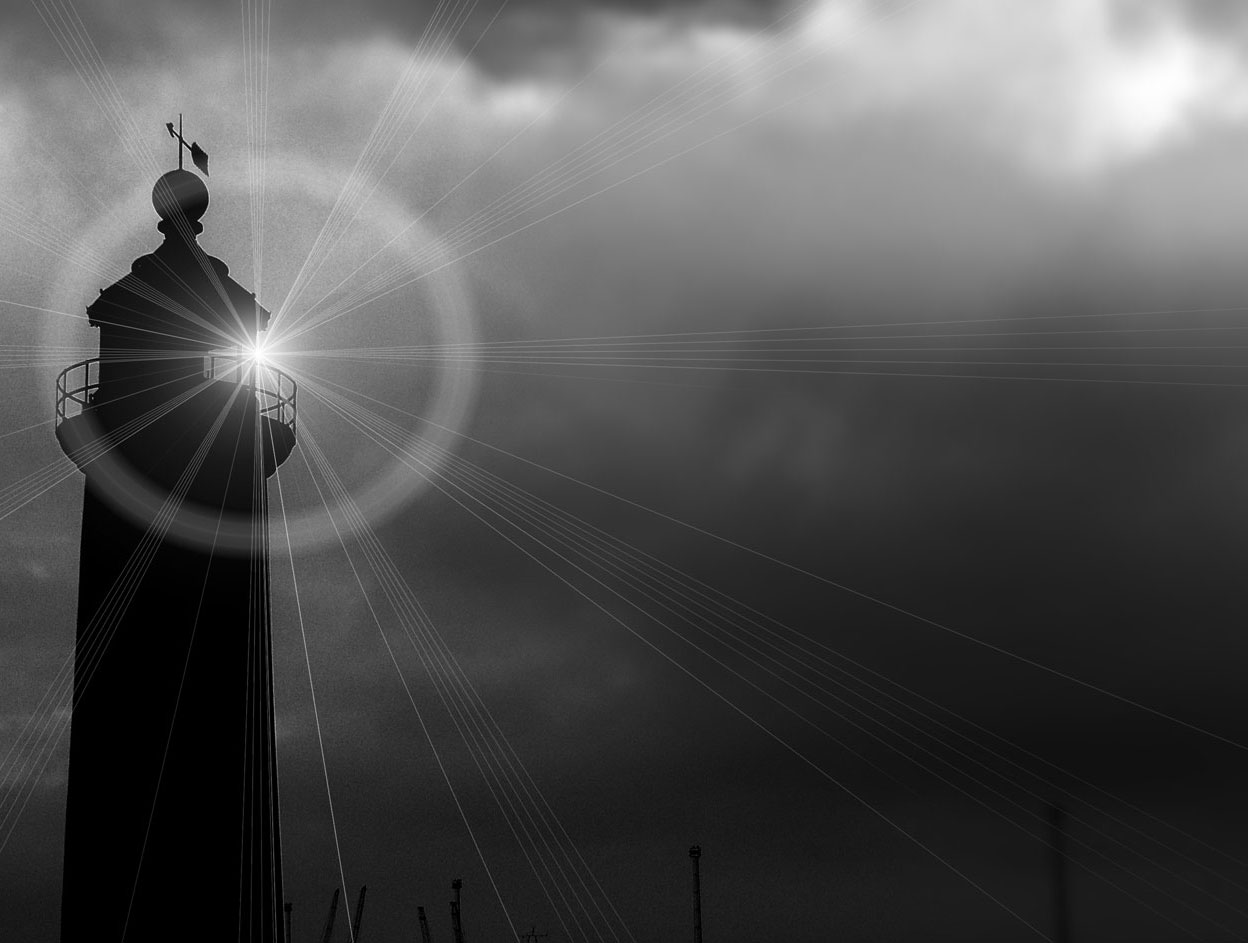
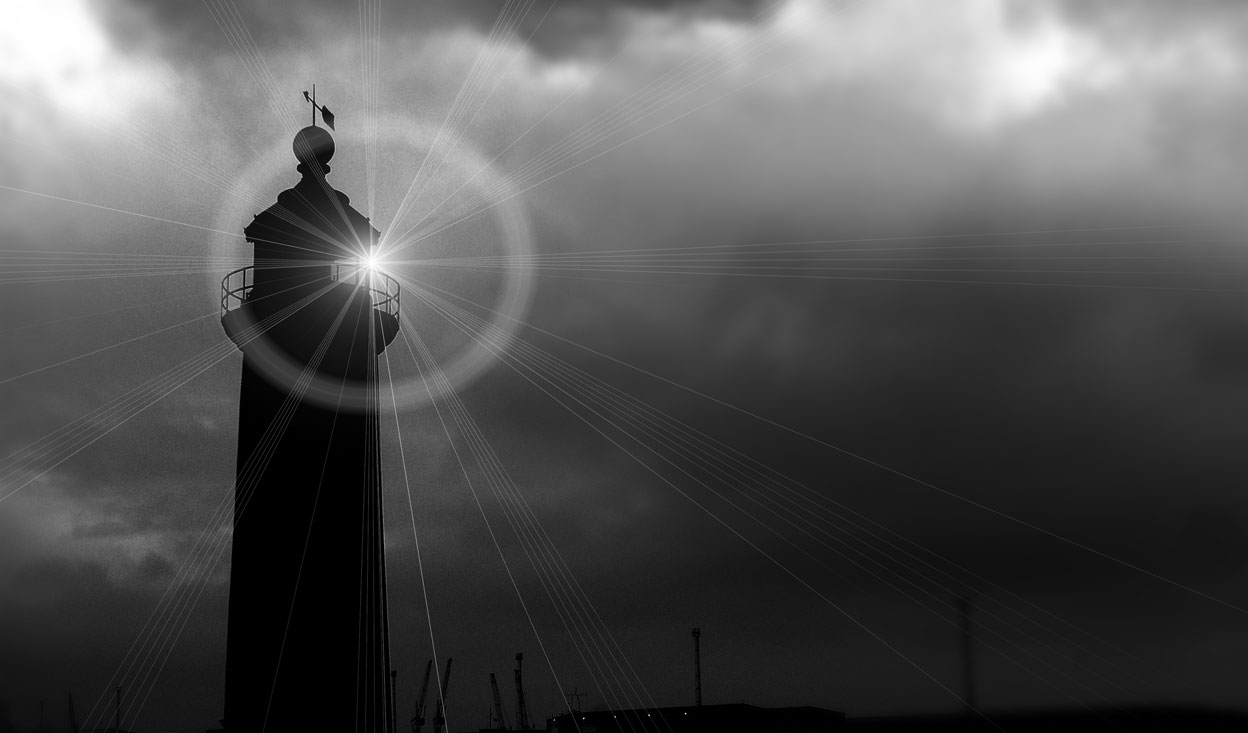
recropped lighthouse image for home page

Changed region(s): [[0.0, 0.0, 1.0, 1.0], [0.75, 0.0, 1.0, 0.2101], [0.5938, 0.0, 0.75, 0.06]]

diff --git a/css/style.css b/css/style.css
@@ -5508,11 +5508,11 @@ ul.index.global li a {
   here to match your background image size. The configuration in the
   flexi-background javascript file should also match these values.
 */
-@media only all and (max-width: 1248px) and (max-height: 943px) {
+@media only all and (max-width: 1248px) and (max-height: 733px) {
   #home {
-    background-size: 1248px 943px;
-    -moz-background-size: 1248px 943px;
-    -webkit-background-size: 1248px 943px;
+    background-size: 1248px 733px;
+    -moz-background-size: 1248px 733px;
+    -webkit-background-size: 1248px 733px;
   }
 }
 /*
